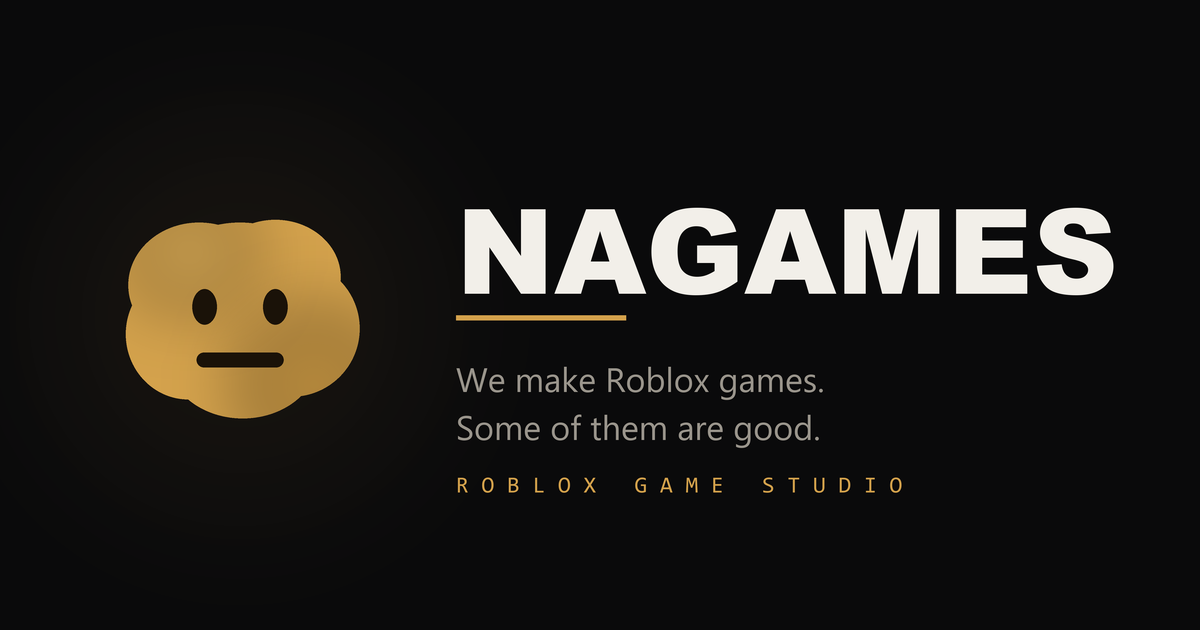
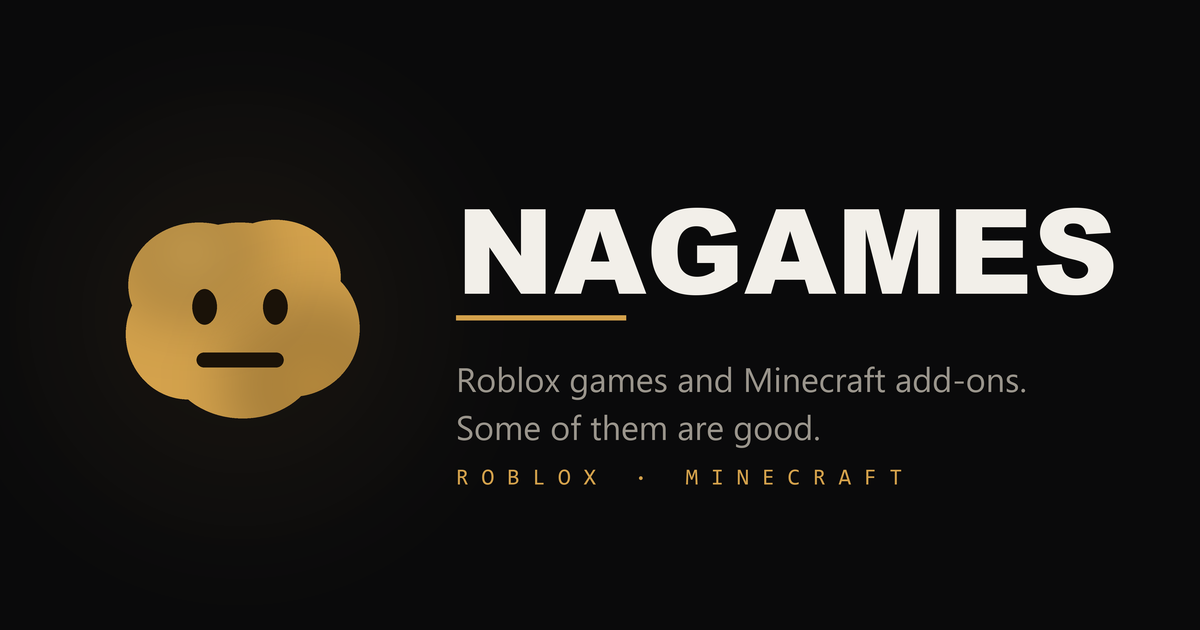
Add Minecraft Bedrock add-ons as a second thing the studio does
The site described NaGames as a Roblox-only studio in the page titles,
meta descriptions, Open Graph tags, the tagline and the baked-in social
image. All of that now covers both platforms.

- new `services` array in content.js drives a "What we do" section on
  the homepage, so what the studio does is data rather than markup and
  a third discipline is one entry away
- tagline: "We make Roblox games and Minecraft add-ons. Some of them
  are good."
- titles and meta descriptions widened on index, about and updates

The social preview had "ROBLOX GAME STUDIO" rendered into the PNG, so
it has been regenerated. Its generator previously lived only in a temp
directory, which meant the image could not be reproduced from the repo;
it is now committed as scripts/make-og.py.

The Minecraft card intentionally has no link yet - pending confirmation
of whether there are published add-ons to point at.

Changed region(s): [[0.37, 0.573, 0.8633, 0.6333], [0.5242, 0.7238, 0.7708, 0.7841], [0.37, 0.7238, 0.4933, 0.7841]]

diff --git a/data/content.js b/data/content.js
@@ -15,7 +15,7 @@ window.NAGAMES = {
   studio: {
     name: "NaGames",
     // Shown under the big heading on the homepage. Keep it short and dry.
-    tagline: "We make Roblox games. Some of them are good.",
+    tagline: "We make Roblox games and Minecraft add-ons. Some of them are good.",
     founded: "2018",
     email: "TODO@example.com",    // business / press contact
 
@@ -77,6 +77,34 @@ window.NAGAMES = {
   // Your Roblox group id, read from the group link above. Used to pull the
   // live member count. Leave "" to fall back to the manual number below.
   groupId: "34650790",
+
+  /* ---------------------------------------------------- what we actually do --
+     The "What we do" cards on the homepage. Add, remove or reorder freely -
+     set the array to [] and the whole section disappears.
+
+     link / linkLabel are optional. Leave link as "" and the card renders
+     with no button, which is right for something you do but have nothing
+     to point at yet.                                                        */
+  services: [
+    {
+      title: "Roblox games",
+      body:
+        "Full experiences built in Roblox Studio, from the first block to " +
+        "live updates and the people playing them. Blacksteel Arms Tycoon is " +
+        "the one we are heads-down on right now.",
+      link: "games.html",
+      linkLabel: "See the games",
+    },
+    {
+      title: "Minecraft Bedrock add-ons",
+      body:
+        "Add-ons for Minecraft Bedrock: custom behaviour, entities, items and " +
+        "the scripting that holds it together. It is where a lot of this " +
+        "started, and we never really stopped.",
+      link: "",                  // TODO: a download page or MCPEDL link, if you have one
+      linkLabel: "",
+    },
+  ],
 
   /* ------------------------------------------------------- headline stats --
      Shown as the strip under the homepage hero. Delete any row you do not

diff --git a/index.html b/index.html
@@ -4,14 +4,14 @@
 <meta charset="utf-8">
 <meta name="viewport" content="width=device-width, initial-scale=1">
 
-<title>NaGames - Roblox game studio</title>
-<meta name="description" content="NaGames is a Roblox game studio. Play our games, grab the latest codes, and read what we just shipped.">
+<title>NaGames - Roblox games and Minecraft add-ons</title>
+<meta name="description" content="NaGames is a game studio making Roblox experiences and Minecraft Bedrock add-ons. Play our games, grab the latest codes, and read what we just shipped.">
 
 <!-- Absolute URLs: Discord and X need the full URL to render a link preview. -->
 <meta property="og:type" content="website">
 <meta property="og:url" content="https://nagames.github.io/">
-<meta property="og:title" content="NaGames - Roblox game studio">
-<meta property="og:description" content="We make Roblox games. Some of them are good.">
+<meta property="og:title" content="NaGames - Roblox games and Minecraft add-ons">
+<meta property="og:description" content="We make Roblox games and Minecraft add-ons. Some of them are good.">
 <meta property="og:image" content="https://nagames.github.io/assets/og-image.png">
 <meta name="twitter:card" content="summary_large_image">
 
@@ -42,6 +42,18 @@
         <a class="btn btn--ghost" href="codes.html">Get the codes</a>
       </div>
       <div data-render="stats"></div>
+    </div>
+  </section>
+
+  <section class="section section--tight">
+    <div class="wrap">
+      <div class="section-head">
+        <div>
+          <p class="eyebrow">Two things, mostly</p>
+          <h2>What we do</h2>
+        </div>
+      </div>
+      <div data-render="services"></div>
     </div>
   </section>
 

diff --git a/css/style.css b/css/style.css
@@ -468,6 +468,29 @@ details.expired-wrap[open] summary::before { content: "\25BE  "; }
 .filter-bar button:hover { color: var(--text); border-color: var(--border-str); }
 .filter-bar button.is-active { background: var(--gold); border-color: var(--gold); color: #0A0A0B; }
 
+/* ------------------------------------------------- what we do cards -- */
+
+.service-grid {
+  display: grid;
+  grid-template-columns: repeat(auto-fit, minmax(290px, 1fr));
+  gap: 22px;
+}
+
+.service {
+  display: flex;
+  flex-direction: column;
+  align-items: flex-start;
+  gap: 14px;
+  background: var(--bg-elev);
+  border: 1px solid var(--border);
+  border-radius: var(--radius);
+  padding: 28px;
+  transition: border-color 0.2s var(--ease), transform 0.2s var(--ease);
+}
+.service:hover { border-color: var(--border-str); transform: translateY(-3px); }
+.service h3 { margin: 0; }
+.service p { color: var(--muted); font-size: 0.95rem; margin: 0; flex: 1; }
+
 /* -------------------------------------------------- About page story -- */
 
 .story { display: grid; gap: 34px; max-width: 70ch; margin: 34px 0 48px; }

diff --git a/js/render.js b/js/render.js
@@ -358,6 +358,32 @@
         .join("");
     },
 
+    /* "What we do" cards - the studio is not Roblox-only */
+    services(host) {
+      const services = d.services || [];
+      if (!services.length) {
+        const section = host.closest("section");
+        return section ? section.remove() : host.remove();
+      }
+
+      host.className = "service-grid";
+      host.innerHTML = services
+        .map((s) => {
+          const link =
+            s.link && s.linkLabel
+              ? `<a class="btn btn--ghost btn--sm" href="${NG.esc(s.link)}">${NG.text(
+                  s.linkLabel
+                )}</a>`
+              : "";
+          return `<article class="service">
+            <h3>${NG.text(s.title)}</h3>
+            <p>${NG.text(s.body)}</p>
+            ${link}
+          </article>`;
+        })
+        .join("");
+    },
+
     /* the About page story - one block per person, byline read from `team` */
     async story(host) {
       const story = d.studio?.story || [];

diff --git a/about.html b/about.html
@@ -5,7 +5,7 @@
 <meta name="viewport" content="width=device-width, initial-scale=1">
 
 <title>About - NaGames</title>
-<meta name="description" content="Who NaGames is, what we build on Roblox, and the people behind it.">
+<meta name="description" content="Who NaGames is, what we build on Roblox and Minecraft Bedrock, and the people behind it.">
 
 <meta property="og:type" content="website">
 <meta property="og:url" content="https://nagames.github.io/about.html">

diff --git a/updates.html b/updates.html
@@ -5,7 +5,7 @@
 <meta name="viewport" content="width=device-width, initial-scale=1">
 
 <title>Updates - NaGames</title>
-<meta name="description" content="Patch notes and update history for every NaGames Roblox game, newest first.">
+<meta name="description" content="Patch notes and update history for every NaGames game, newest first.">
 
 <meta property="og:type" content="website">
 <meta property="og:url" content="https://nagames.github.io/updates.html">

diff --git a/scripts/make-og.py b/scripts/make-og.py
@@ -1,0 +1,159 @@
+"""Generate assets/og-image.png - the 1200x630 social share preview.
+
+Run after changing the studio name or tagline:
+
+    python scripts/make-og.py
+
+Needs Pillow (`pip install pillow`). It is the only thing in this repo that
+does, which is why it is a standalone script rather than part of the site.
+
+The mascot is built from overlapping ellipses - that naturally produces the
+lumpy nugget silhouette without needing the SVG path. Everything is drawn at
+4x and downscaled at the end, which is how we get antialiased edges out of
+Pillow's hard-edged primitives.
+"""
+
+import os
+import pathlib
+from PIL import Image, ImageDraw, ImageFont, ImageFilter
+
+ROOT = pathlib.Path(__file__).resolve().parent.parent
+OUT = ROOT / "assets" / "og-image.png"
+
+W, H, S = 1200, 630, 4          # final size, supersample factor
+
+# must match the tokens at the top of css/style.css
+BG = (10, 10, 11)
+GOLD = (212, 162, 76)
+BRIGHT = (232, 192, 106)
+SHADOW = (168, 124, 50)
+DARK = (26, 18, 8)
+TEXT = (242, 239, 233)
+MUTED = (154, 149, 140)
+
+WORDMARK = "NAGAMES"
+LINES = ["Roblox games and Minecraft add-ons.", "Some of them are good."]
+TAG = "R O B L O X   ·   M I N E C R A F T"
+
+
+def font(candidates, size):
+    for name in candidates:
+        path = os.path.join(r"C:\Windows\Fonts", name)
+        if os.path.exists(path):
+            return ImageFont.truetype(path, size)
+    return ImageFont.load_default()
+
+
+def fit(draw, text, candidates, start, avail, floor=14):
+    """Largest font size at which `text` still fits `avail` pixels wide."""
+    size = start
+    while size > floor:
+        f = font(candidates, size * S)
+        if draw.textlength(text, font=f) <= avail:
+            return f
+        size -= 2
+    return font(candidates, floor * S)
+
+
+def draw_mascot(img, cx, cy, r):
+    """Nugget silhouette from overlapping ellipses, then the deadpan face."""
+    d = ImageDraw.Draw(img)
+
+    # (offset x, offset y, radius x, radius y), as fractions of r
+    lobes = [
+        (-0.30, -0.22, 0.52, 0.46),
+        (0.26, -0.28, 0.48, 0.42),
+        (0.38, 0.10, 0.50, 0.50),
+        (-0.38, 0.14, 0.46, 0.48),
+        (0.02, 0.30, 0.56, 0.46),
+        (0.00, -0.02, 0.72, 0.66),
+    ]
+    for ox, oy, rx, ry in lobes:
+        d.ellipse(
+            [cx + (ox - rx) * r, cy + (oy - ry) * r,
+             cx + (ox + rx) * r, cy + (oy + ry) * r],
+            fill=GOLD,
+        )
+
+    # shading and highlight, blurred hard - otherwise they read as pasted-on circles
+    blur = ImageFilter.GaussianBlur(0.26 * r)
+
+    shade = Image.new("RGBA", img.size, (0, 0, 0, 0))
+    ImageDraw.Draw(shade).ellipse(
+        [cx + 0.04 * r, cy + 0.02 * r, cx + 1.05 * r, cy + 1.00 * r],
+        fill=SHADOW + (150,),
+    )
+    shade = shade.filter(blur)
+
+    hi = Image.new("RGBA", img.size, (0, 0, 0, 0))
+    ImageDraw.Draw(hi).ellipse(
+        [cx - 0.78 * r, cy - 0.80 * r, cx + 0.04 * r, cy - 0.12 * r],
+        fill=BRIGHT + (150,),
+    )
+    hi = hi.filter(blur)
+
+    # clip both to the body so nothing spills past the silhouette
+    mask = Image.new("L", img.size, 0)
+    md = ImageDraw.Draw(mask)
+    for ox, oy, rx, ry in lobes:
+        md.ellipse(
+            [cx + (ox - rx) * r, cy + (oy - ry) * r,
+             cx + (ox + rx) * r, cy + (oy + ry) * r],
+            fill=255,
+        )
+    img.paste(Image.alpha_composite(img.convert("RGBA"), shade), (0, 0), mask)
+    img.paste(Image.alpha_composite(img.convert("RGBA"), hi), (0, 0), mask)
+
+    # face
+    d = ImageDraw.Draw(img)
+    eye_y = cy - 0.06 * r
+    for sx in (-1, 1):
+        ex = cx + sx * 0.26 * r
+        d.ellipse([ex - 0.09 * r, eye_y - 0.13 * r,
+                   ex + 0.09 * r, eye_y + 0.13 * r], fill=DARK)
+    mw, mh = 0.32 * r, 0.055 * r
+    my = cy + 0.33 * r
+    d.rounded_rectangle([cx - mw, my - mh, cx + mw, my + mh], radius=mh, fill=DARK)
+
+
+def main():
+    img = Image.new("RGBA", (W * S, H * S), BG + (255,))
+
+    # soft gold bloom behind the mascot
+    bloom = Image.new("RGBA", img.size, (0, 0, 0, 0))
+    bd = ImageDraw.Draw(bloom)
+    bcx, bcy = int(W * 0.20 * S), int(H * 0.5 * S)
+    for i in range(44, 0, -1):
+        rad = int(i / 44 * 290 * S)
+        bd.ellipse([bcx - rad, bcy - rad, bcx + rad, bcy + rad],
+                   fill=GOLD + (max(1, int(22 * (1 - i / 44))),))
+    img = Image.alpha_composite(img, bloom)
+
+    draw_mascot(img, bcx, bcy, 136 * S)
+
+    d = ImageDraw.Draw(img)
+    x = int(W * 0.38 * S)
+    avail = (W - 56) * S - x          # keep a 56px right margin
+
+    f_title = fit(d, WORDMARK, ["ariblk.ttf", "impact.ttf", "arialbd.ttf"], 118, avail)
+    f_sub = fit(d, max(LINES, key=len), ["segoeui.ttf", "arial.ttf"], 34, avail)
+    f_tag = fit(d, TAG, ["consola.ttf", "cour.ttf", "arial.ttf"], 23, avail)
+
+    y = int(H * 0.26 * S)
+    d.text((x, y), WORDMARK, font=f_title, fill=TEXT)
+
+    # gold rule, positioned off the wordmark's real bounding box
+    rule_y = d.textbbox((x, y), WORDMARK, font=f_title)[3] + 20 * S
+    d.rectangle([x, rule_y, x + 170 * S, rule_y + 5 * S], fill=GOLD)
+
+    for i, line in enumerate(LINES):
+        d.text((x, rule_y + (40 + i * 48) * S), line, font=f_sub, fill=MUTED)
+
+    d.text((x, rule_y + (56 + len(LINES) * 48) * S), TAG, font=f_tag, fill=GOLD)
+
+    img.convert("RGB").resize((W, H), Image.LANCZOS).save(OUT, "PNG", optimize=True)
+    print(f"wrote {OUT.relative_to(ROOT)} ({OUT.stat().st_size // 1024} KB, {W}x{H})")
+
+
+if __name__ == "__main__":
+    main()

diff --git a/README.md b/README.md
@@ -213,6 +213,8 @@ unsolicited DMs, including scam attempts aimed at studio accounts. Your call.
 |---|---|
 | `data/content.js` | **All site content.** The only file you edit routinely. |
 | `studio.story` | The About page, one block per person. `by` matches a `team` name, so the role and avatar come from there. |
+| `services` | The "What we do" cards on the homepage. Add an entry per thing the studio does; `link` is optional. |
+| `scripts/make-og.py` | Regenerates `assets/og-image.png`. Run it if the studio name or tagline changes. Needs Pillow. |
 | `data/roblox.json` | Generated by the workflow. Don't edit by hand. |
 | `css/style.css` | All styling. Palette tokens are at the very top in `:root`. |
 | `js/site.js` | Shared header and footer, nav, helpers. |
